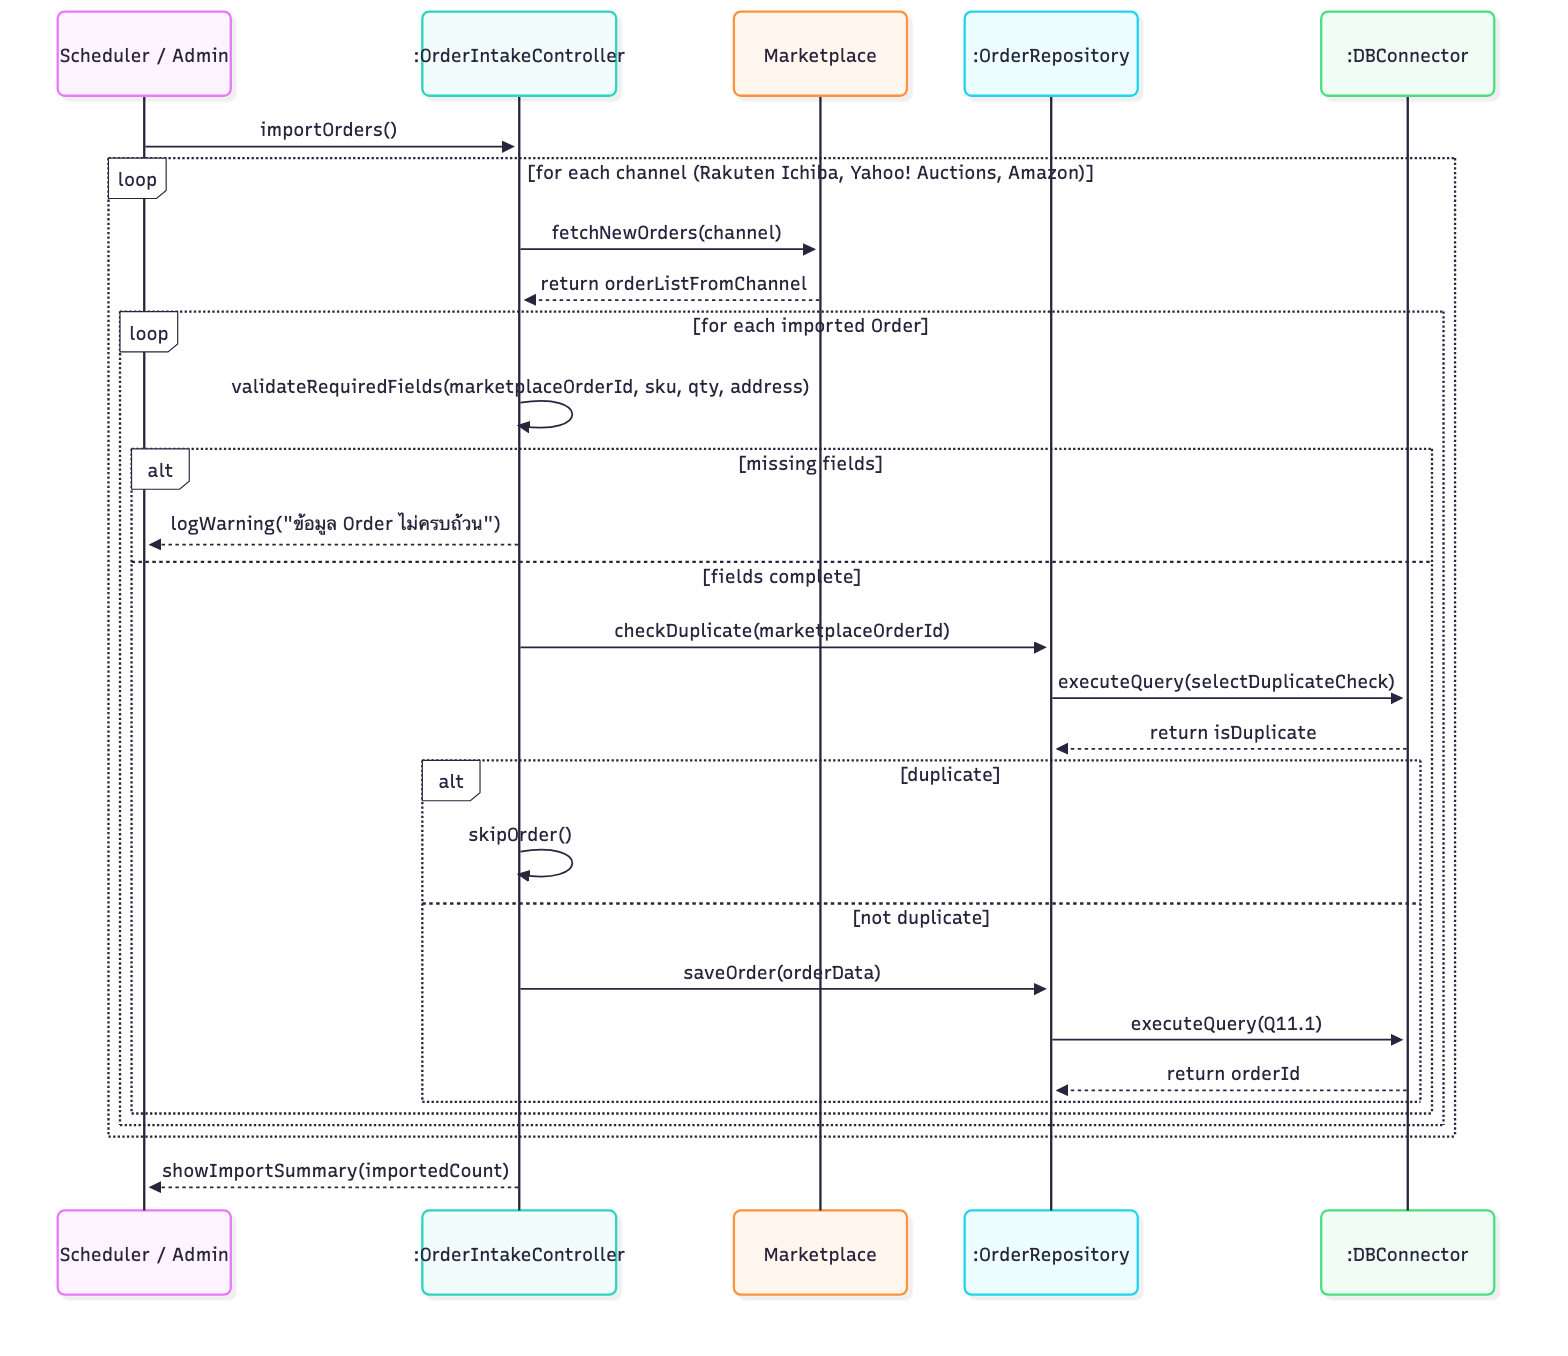
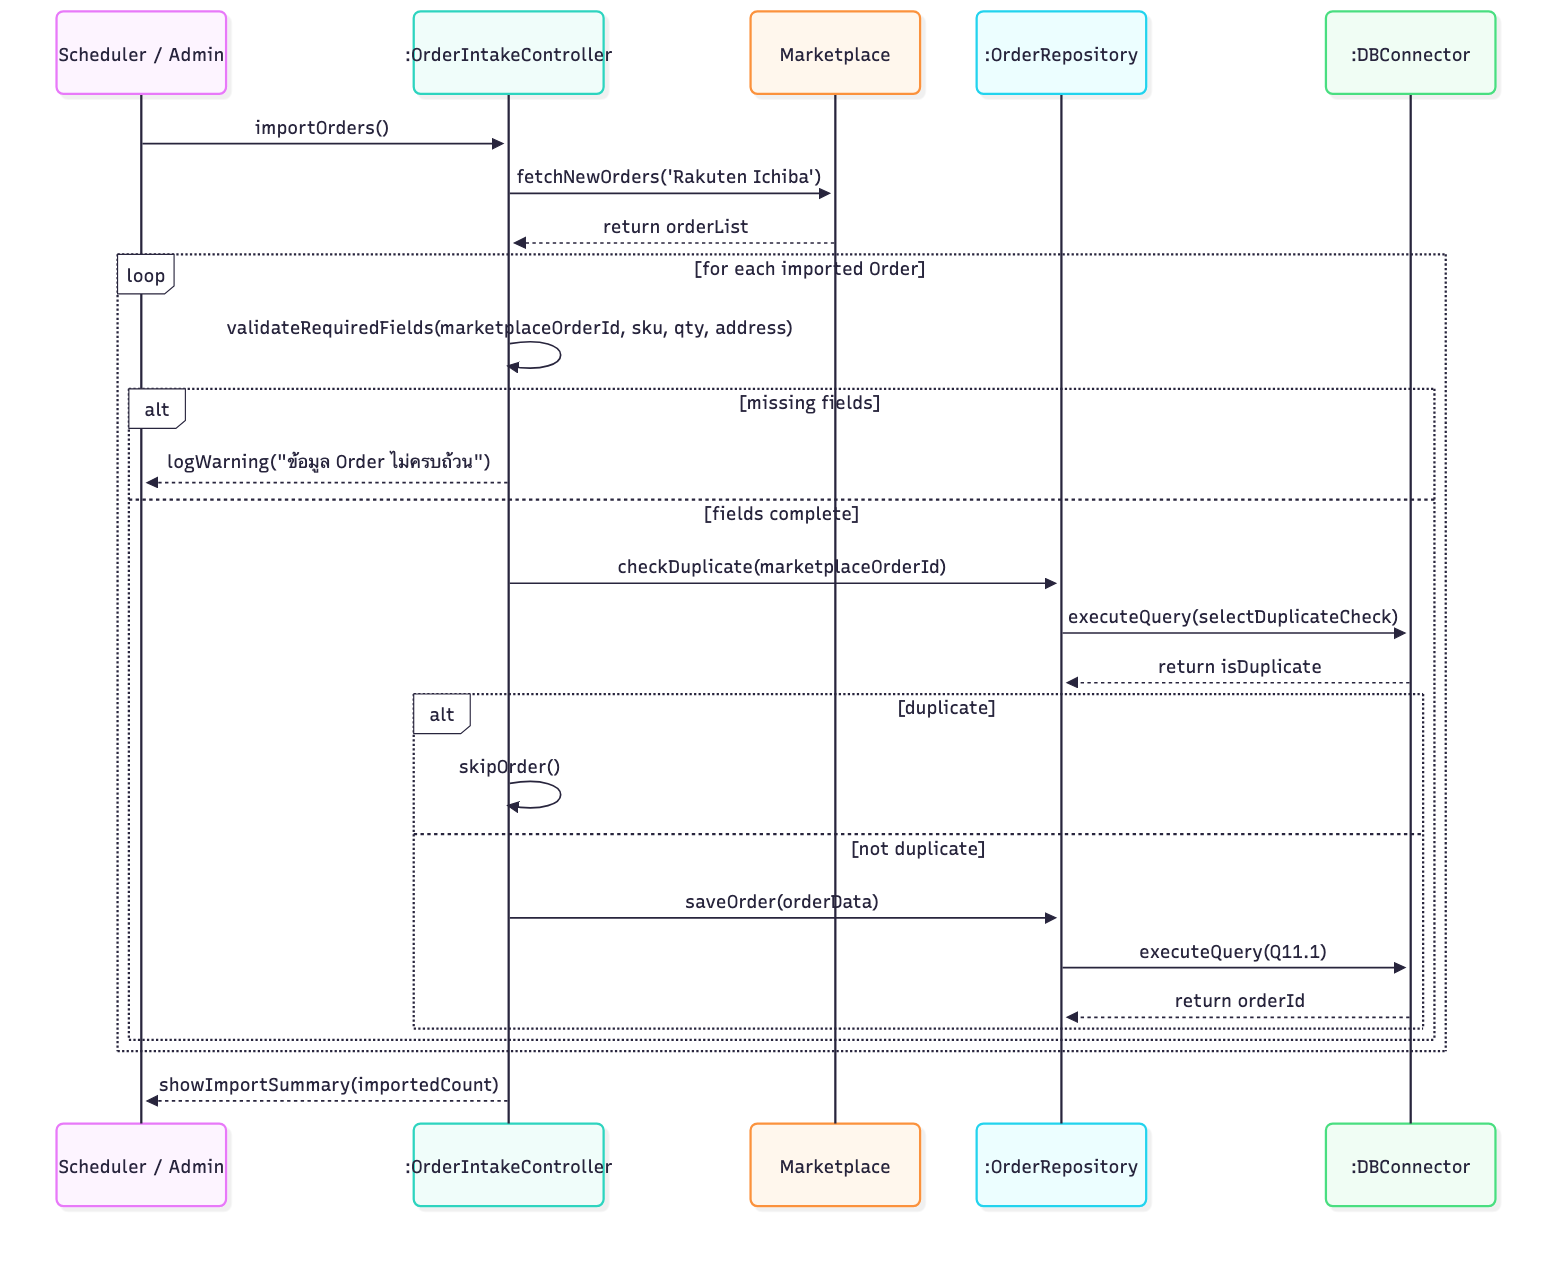
docs: limit use cases 4A, 1S, 5S and 7S to Rakuten Ichiba
Phase 1 covers Rakuten only (biz-requirement section 14), but these use
cases still named Yahoo! Auctions and Amazon. The 4A diagrams no longer
loop over sales channels.

Changed region(s): [[0.0312, 0.0, 0.9688, 0.955], [0.25, 0.6469, 0.2812, 0.6777]]

diff --git a/03-chapter2-use-case-descriptions/00-use-case-descriptions.md b/03-chapter2-use-case-descriptions/00-use-case-descriptions.md
@@ -57,15 +57,15 @@
 
 ## 4A) ดึง Order เข้าระบบ *(เดิม)*
 
-**Goal:** ให้ระบบดึง Order ใหม่จากทุกช่องทางขายเข้าสู่ระบบโดยอัตโนมัติ เพื่อเป็นจุดเริ่มต้นของกระบวนการจัดส่ง
-**Pre-Condition:** ต้องมีการตั้งค่าการเชื่อมต่อ (API Key / Credential) ของแต่ละ Marketplace ไว้แล้ว
+**Goal:** ให้ระบบดึง Order ใหม่จาก Rakuten Ichiba (ผ่าน Rakuten RMS) เข้าสู่ระบบโดยอัตโนมัติ เพื่อเป็นจุดเริ่มต้นของกระบวนการจัดส่ง
+**Pre-Condition:** ต้องมีการตั้งค่าการเชื่อมต่อ (API Key / Credential) ของ Rakuten RMS ไว้แล้ว
 **Post-Condition:** Order ใหม่ทั้งหมดถูกบันทึกเข้าระบบ พร้อมสถานะ "รอตรวจสอบคำสั่งซื้อ" (ส่งต่อให้ 2A ตรวจสอบ)
 **Actor:** System (Auto) / Admin
 
 | # | User Action | System Response |
 |---|---|---|
-| 1 | | ระบบเชื่อมต่อกับ Rakuten Ichiba (RMS), Yahoo! Auctions และ Amazon ตามรอบเวลาที่ตั้งไว้ |
-| 2 | Admin กด "นำเข้า Order" หรือระบบดึงอัตโนมัติตามรอบเวลา | ระบบเริ่มดึงข้อมูล Order ใหม่จากแต่ละช่องทาง |
+| 1 | | ระบบเชื่อมต่อกับ Rakuten Ichiba (RMS) ตามรอบเวลาที่ตั้งไว้ |
+| 2 | Admin กด "นำเข้า Order" หรือระบบดึงอัตโนมัติตามรอบเวลา | ระบบเริ่มดึงข้อมูล Order ใหม่จาก Rakuten RMS |
 | 3 | ตรวจสอบรายการ Order ที่นำเข้า | **ตรวจสอบข้อมูล:** Order ต้องมีหมายเลขคำสั่งซื้อ (`marketplace_order_id`), SKU, จำนวน และที่อยู่จัดส่งครบถ้วน หากไม่ครบจะแจ้งเตือนว่า "ข้อมูล Order ไม่ครบถ้วน กรุณาตรวจสอบ"; หาก `marketplace_order_id` ซ้ำกับที่มีอยู่แล้ว ระบบจะข้ามรายการนั้นเพื่อป้องกันข้อมูลซ้ำ<br>**บันทึก Order** — **Q11.1:** `INSERT INTO orders (marketplace_order_id, sales_channel, order_date, sku, variation, qty, shipping_address, shipping_method, order_status) VALUES (...)`<br>ระบบบันทึก Order ใหม่พร้อมสถานะ "รอตรวจสอบคำสั่งซื้อ" และแสดงจำนวน Order ที่นำเข้าสำเร็จ |
 | ทางเลือก #1 | การเชื่อมต่อกับ Marketplace ล้มเหลว หรือ Credential หมดอายุ | แจ้งเตือนว่า "ไม่สามารถเชื่อมต่อกับ [ชื่อช่องทางขาย] ได้ กรุณาตรวจสอบการตั้งค่า" และบันทึก Log ข้อผิดพลาดเพื่อลองใหม่ในรอบถัดไป |
 | ทางเลือก #2 | Order ที่ดึงมามี SKU ที่ยังไม่มีในระบบ | ระบบนำ Order นั้นเข้าสถานะ "รอดำเนินการด้วยตนเอง" และแจ้งเตือนว่า "พบ SKU ที่ยังไม่ได้ลงทะเบียนในระบบ" |
@@ -190,7 +190,7 @@
 
 | # | User Action | System Response |
 |---|---|---|
-| 1 | | แสดงรายการ Order ใหม่ที่ยังไม่ได้จับคู่กับ RSL โดยดึงข้อมูลจากช่องทางขาย (Rakuten Ichiba, Yahoo! Auctions, Amazon) |
+| 1 | | แสดงรายการ Order ใหม่ที่ยังไม่ได้จับคู่กับ RSL โดยดึงข้อมูลจากช่องทางขาย (Rakuten Ichiba) |
 | 2 | Admin เลือก Order หรือกด "จับคู่อัตโนมัติทั้งหมด" | ระบบเริ่มกระบวนการจับคู่ |
 | 3 | กด "จับคู่กับ RSL" | **ค้นหาข้อมูลใน RSL** — **Q4.1:** `SELECT rsl_order_id, rsl_sku, rsl_variation, rsl_stock_qty FROM rsl_shipments WHERE rsl_sku=$1 AND rsl_variation=$2`<br>**ตรวจสอบความถูกต้อง:** เปรียบเทียบ SKU และ Variation ของ Order กับข้อมูลใน RSL; หากไม่พบ SKU ที่ตรงกัน จะแจ้งเตือนว่า "ไม่พบสินค้านี้ในระบบ RSL"; หากพบ SKU ตรงกันมากกว่า 1 รายการ (กรณีข้อมูลซ้ำ) จะแจ้งเตือนว่า "พบข้อมูล RSL ที่ตรงกันมากกว่า 1 รายการ กรุณาเลือกด้วยตนเอง"<br>**บันทึกผลการจับคู่** — **Q4.2:** `UPDATE orders SET rsl_matched=true, rsl_reference_id=$1, order_status='รอจัดรูปแบบใบปะสินค้า', matched_at=NOW() WHERE order_id=$2`<br>หากบันทึกสำเร็จ ระบบแสดงข้อความ "จับคู่ Order กับ RSL สำเร็จ" พร้อมหมายเลขอ้างอิง RSL และส่งต่อไปทำ **Use Case 6S** |
 | ทางเลือก #1 | ไม่พบ SKU ที่ตรงกันใน RSL | แจ้งเตือนตามข้อ 3 และนำ Order เข้าสถานะ "รอดำเนินการด้วยตนเอง" (Manual Review) เพื่อให้ Admin ตรวจสอบหรือแก้ไขข้อมูล SKU |
@@ -262,7 +262,7 @@
 |---|---|---|
 | 1 | | ระบบตรวจสอบ Order ที่มีหมายเลขติดตามพัสดุแล้ว แต่ยังไม่ได้ส่งแจ้งลูกค้า |
 | 2 | | แสดงรายการ Order ที่รอส่งเลขติดตามให้ลูกค้าในหน้าสรุปสถานะ |
-| 3 | Admin กด "ส่งเลขติดตามให้ลูกค้า" หรือระบบส่งอัตโนมัติตามรอบเวลาที่ตั้งไว้ | **ตรวจสอบ:** Order ต้องมี Tracking Number และ Carrier Name ครบถ้วน หากไม่ครบจะแจ้งเตือนว่า "ข้อมูลหมายเลขติดตามไม่ครบถ้วน ไม่สามารถแจ้งลูกค้าได้"; Order ต้องยังไม่เคยส่งเลขติดตามมาก่อน หากเคยส่งแล้วจะแจ้งเตือนว่า "Order นี้แจ้งเลขติดตามไปแล้ว ต้องการส่งซ้ำหรือไม่"<br>**ดึงข้อมูลช่องทางขายของ Order** — **Q9.1:** `SELECT sales_channel, marketplace_order_id, tracking_number, carrier_name FROM orders WHERE order_id=$1`<br>**ส่งเลขติดตามผ่านช่องทางขาย** — **Q9.2:** `UPDATE orders SET tracking_notified=true, tracking_notified_at=NOW() WHERE order_id=$1`<br>ระบบส่งหมายเลขติดตามพัสดุกลับไปยังระบบของช่องทางขาย (เช่น Rakuten RMS API, Amazon API) ตามรูปแบบที่แต่ละมาร์เก็ตเพลสกำหนด หากส่งสำเร็จ ระบบแสดงข้อความ "แจ้งเลขติดตามให้ลูกค้าสำเร็จ" |
+| 3 | Admin กด "ส่งเลขติดตามให้ลูกค้า" หรือระบบส่งอัตโนมัติตามรอบเวลาที่ตั้งไว้ | **ตรวจสอบ:** Order ต้องมี Tracking Number และ Carrier Name ครบถ้วน หากไม่ครบจะแจ้งเตือนว่า "ข้อมูลหมายเลขติดตามไม่ครบถ้วน ไม่สามารถแจ้งลูกค้าได้"; Order ต้องยังไม่เคยส่งเลขติดตามมาก่อน หากเคยส่งแล้วจะแจ้งเตือนว่า "Order นี้แจ้งเลขติดตามไปแล้ว ต้องการส่งซ้ำหรือไม่"<br>**ดึงข้อมูลช่องทางขายของ Order** — **Q9.1:** `SELECT sales_channel, marketplace_order_id, tracking_number, carrier_name FROM orders WHERE order_id=$1`<br>**ส่งเลขติดตามผ่านช่องทางขาย** — **Q9.2:** `UPDATE orders SET tracking_notified=true, tracking_notified_at=NOW() WHERE order_id=$1`<br>ระบบส่งหมายเลขติดตามพัสดุกลับไปยังระบบของช่องทางขาย (Rakuten RMS API) ตามรูปแบบที่ Rakuten กำหนด หากส่งสำเร็จ ระบบแสดงข้อความ "แจ้งเลขติดตามให้ลูกค้าสำเร็จ" |
 | ทางเลือก #1 | ช่องทางขายไม่รองรับการส่งเลขติดตามอัตโนมัติ (เช่น บาง Marketplace ไม่มี API) | แจ้งเตือนว่า "ช่องทางขายนี้ไม่รองรับการแจ้งเลขติดตามอัตโนมัติ กรุณาแจ้งลูกค้าด้วยตนเอง" และแสดงเลขติดตามให้ Admin คัดลอกไปแจ้งเอง |
 | ทางเลือก #2 | การส่งข้อมูลไปยัง Marketplace ล้มเหลว (API Error) | แจ้งเตือนว่า "ส่งเลขติดตามไม่สำเร็จ กรุณาลองใหม่ภายหลัง" และคงสถานะเป็น "รอแจ้งเลขติดตาม" เพื่อให้ระบบลองส่งใหม่อัตโนมัติในรอบถัดไป |
 | ทางเลือก #3 | Admin ต้องการส่งเลขติดตามซ้ำ (เช่น ลูกค้าแจ้งว่ายังไม่ได้รับ) | ระบบให้ Admin ยืนยันการส่งซ้ำ แล้วบันทึก Log การส่งซ้ำพร้อมเวลาและผู้ดำเนินการ |
@@ -289,13 +289,13 @@
 
 **Goal:** ให้ยอดสต๊อกในระบบถูกตัดตามจำนวนที่จัดส่งจริง และจำนวนสินค้าคงเหลือใน Marketplace ตรงกับความเป็นจริง
 **Pre-Condition:** Order อยู่ในสถานะ "แจ้งเลขติดตามแล้ว" (5S) และยังไม่ได้ตัดสต๊อก
-**Post-Condition:** ยอด `in_house_qty` หรือ `rsl_qty` ถูกหักตามจำนวนที่ส่ง และจำนวนคงเหลือถูกอัปเดตกลับไปยังทุก Marketplace
+**Post-Condition:** ยอด `in_house_qty` หรือ `rsl_qty` ถูกหักตามจำนวนที่ส่ง และจำนวนคงเหลือถูกอัปเดตกลับไปยัง Rakuten Ichiba
 **Actor:** System (Auto)
 
 | # | User Action | System Response |
 |---|---|---|
 | 1 | | ระบบดึงรายการ Order ที่แจ้งเลขติดตามแล้วแต่ยังไม่ได้ตัดสต๊อก ขึ้นมาประมวลผล |
 | 2 | | **1. ดึงยอดสต๊อกและตรวจสอบก่อนตัด**<br>**Q7S.1:** `SELECT s.sku, s.variation, s.in_house_qty, s.rsl_qty, o.qty, o.fulfill_source, o.stock_deducted FROM stock s JOIN orders o USING (sku, variation) WHERE o.order_id=$1`<br>— หาก `stock_deducted = true` (Order นี้ถูกตัดสต๊อกไปแล้ว) ระบบจะข้ามรายการนั้นเพื่อป้องกันการตัดสต๊อกซ้ำซ้อน และบันทึก Log ว่า "Order นี้ตัดสต๊อกไปแล้วเมื่อ [วันที่/เวลา]"<br>— หากไม่พบ SKU ในตาราง `stock` หรือยอดคงเหลือในแหล่งที่จัดส่ง (`fulfill_source`) น้อยกว่า `qty` จะแจ้งเตือนว่า "ยอดสต๊อกไม่เพียงพอสำหรับการตัดสต๊อก กรุณาตรวจสอบ" ไม่ตัดสต๊อก และตั้งสถานะเป็น "รอดำเนินการด้วยตนเอง" (Manual Review) เพื่อให้ Admin ตรวจนับสต๊อกจริง |
-| 3 | | **2. ตัดสต๊อกตามแหล่งที่จัดส่ง** — หาก `fulfill_source` เป็นคลังบริษัท (**Q7S.2:** `UPDATE stock SET in_house_qty = in_house_qty - $1, updated_at=NOW() WHERE sku=$2 AND variation=$3`); หาก `fulfill_source` เป็น RSL (**Q7S.3:** `UPDATE stock SET rsl_qty = rsl_qty - $1, updated_at=NOW() WHERE sku=$2 AND variation=$3`)<br>**3. อัปเดตจำนวนคงเหลือไปยังทุก Marketplace**<br>**Q7S.4:** `Available Qty = in_house_qty + rsl_qty`<br>**Q7S.5:** `UPDATE orders SET stock_deducted=true, mp_stock_synced=true, order_status='จัดส่งสำเร็จ', deducted_at=NOW() WHERE order_id=$1`<br>— หากตัดสต๊อกและซิงค์สำเร็จ ระบบส่งยอดคงเหลือใหม่กลับไปยังทุกช่องทางขายที่ลงขาย SKU นั้น และแสดงข้อความ "ตัดสต๊อกและอัปเดตจำนวนสินค้าสำเร็จ" |
+| 3 | | **2. ตัดสต๊อกตามแหล่งที่จัดส่ง** — หาก `fulfill_source` เป็นคลังบริษัท (**Q7S.2:** `UPDATE stock SET in_house_qty = in_house_qty - $1, updated_at=NOW() WHERE sku=$2 AND variation=$3`); หาก `fulfill_source` เป็น RSL (**Q7S.3:** `UPDATE stock SET rsl_qty = rsl_qty - $1, updated_at=NOW() WHERE sku=$2 AND variation=$3`)<br>**3. อัปเดตจำนวนคงเหลือไปยัง Rakuten Ichiba**<br>**Q7S.4:** `Available Qty = in_house_qty + rsl_qty`<br>**Q7S.5:** `UPDATE orders SET stock_deducted=true, mp_stock_synced=true, order_status='จัดส่งสำเร็จ', deducted_at=NOW() WHERE order_id=$1`<br>— หากตัดสต๊อกและซิงค์สำเร็จ ระบบส่งยอดคงเหลือใหม่กลับไปยัง Rakuten Ichiba ที่ลงขาย SKU นั้น และแสดงข้อความ "ตัดสต๊อกและอัปเดตจำนวนสินค้าสำเร็จ" |
 | ทางเลือก #1 | (ระบบตรวจพบเอง) อัปเดตจำนวนคงเหลือกลับไปยัง Marketplace ไม่สำเร็จ | แจ้งเตือนว่า "ไม่สามารถอัปเดตจำนวนสินค้าใน [ชื่อช่องทางขาย] ได้ กรุณาลองใหม่ภายหลัง" โดยตัดสต๊อกในระบบไว้ก่อน และคงสถานะการซิงค์เป็น "รอซิงค์" เพื่อ retry อัตโนมัติ |
 | ทางเลือก #2 | (ระบบตรวจพบเอง) Order ถูกตีกลับหรือคืนสินค้าหลังตัดสต๊อกไปแล้ว | ระบบคืนยอดสต๊อกกลับเข้าคลังตามจำนวนที่คืน อัปเดตจำนวนคงเหลือไปยัง Marketplace อีกครั้ง และบันทึก Log การคืนสต๊อกพร้อมเหตุผล |
